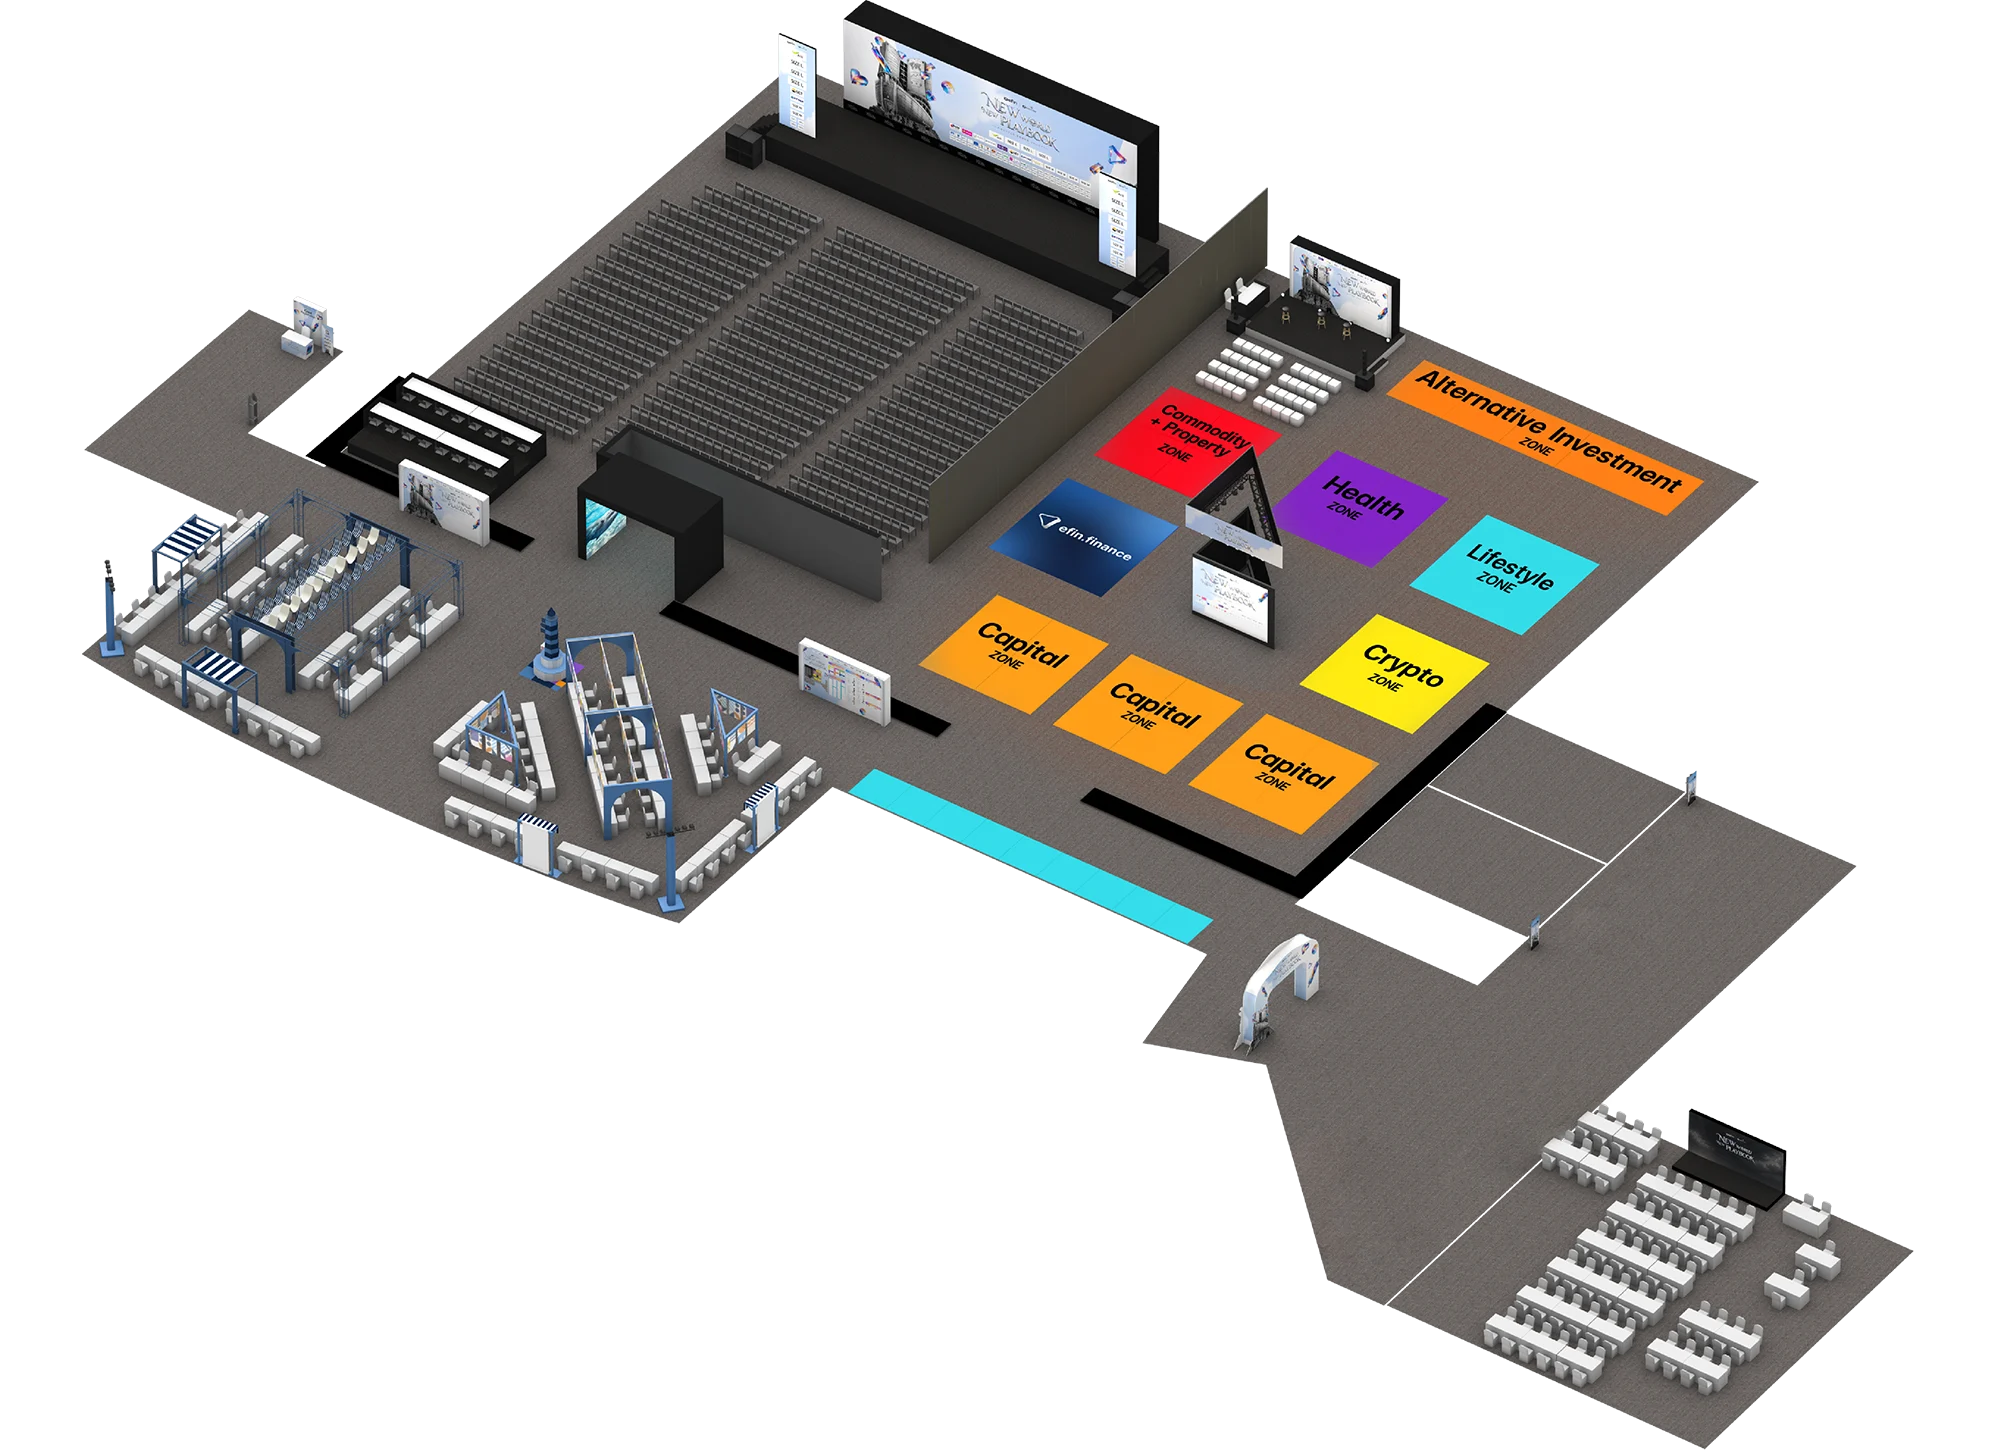
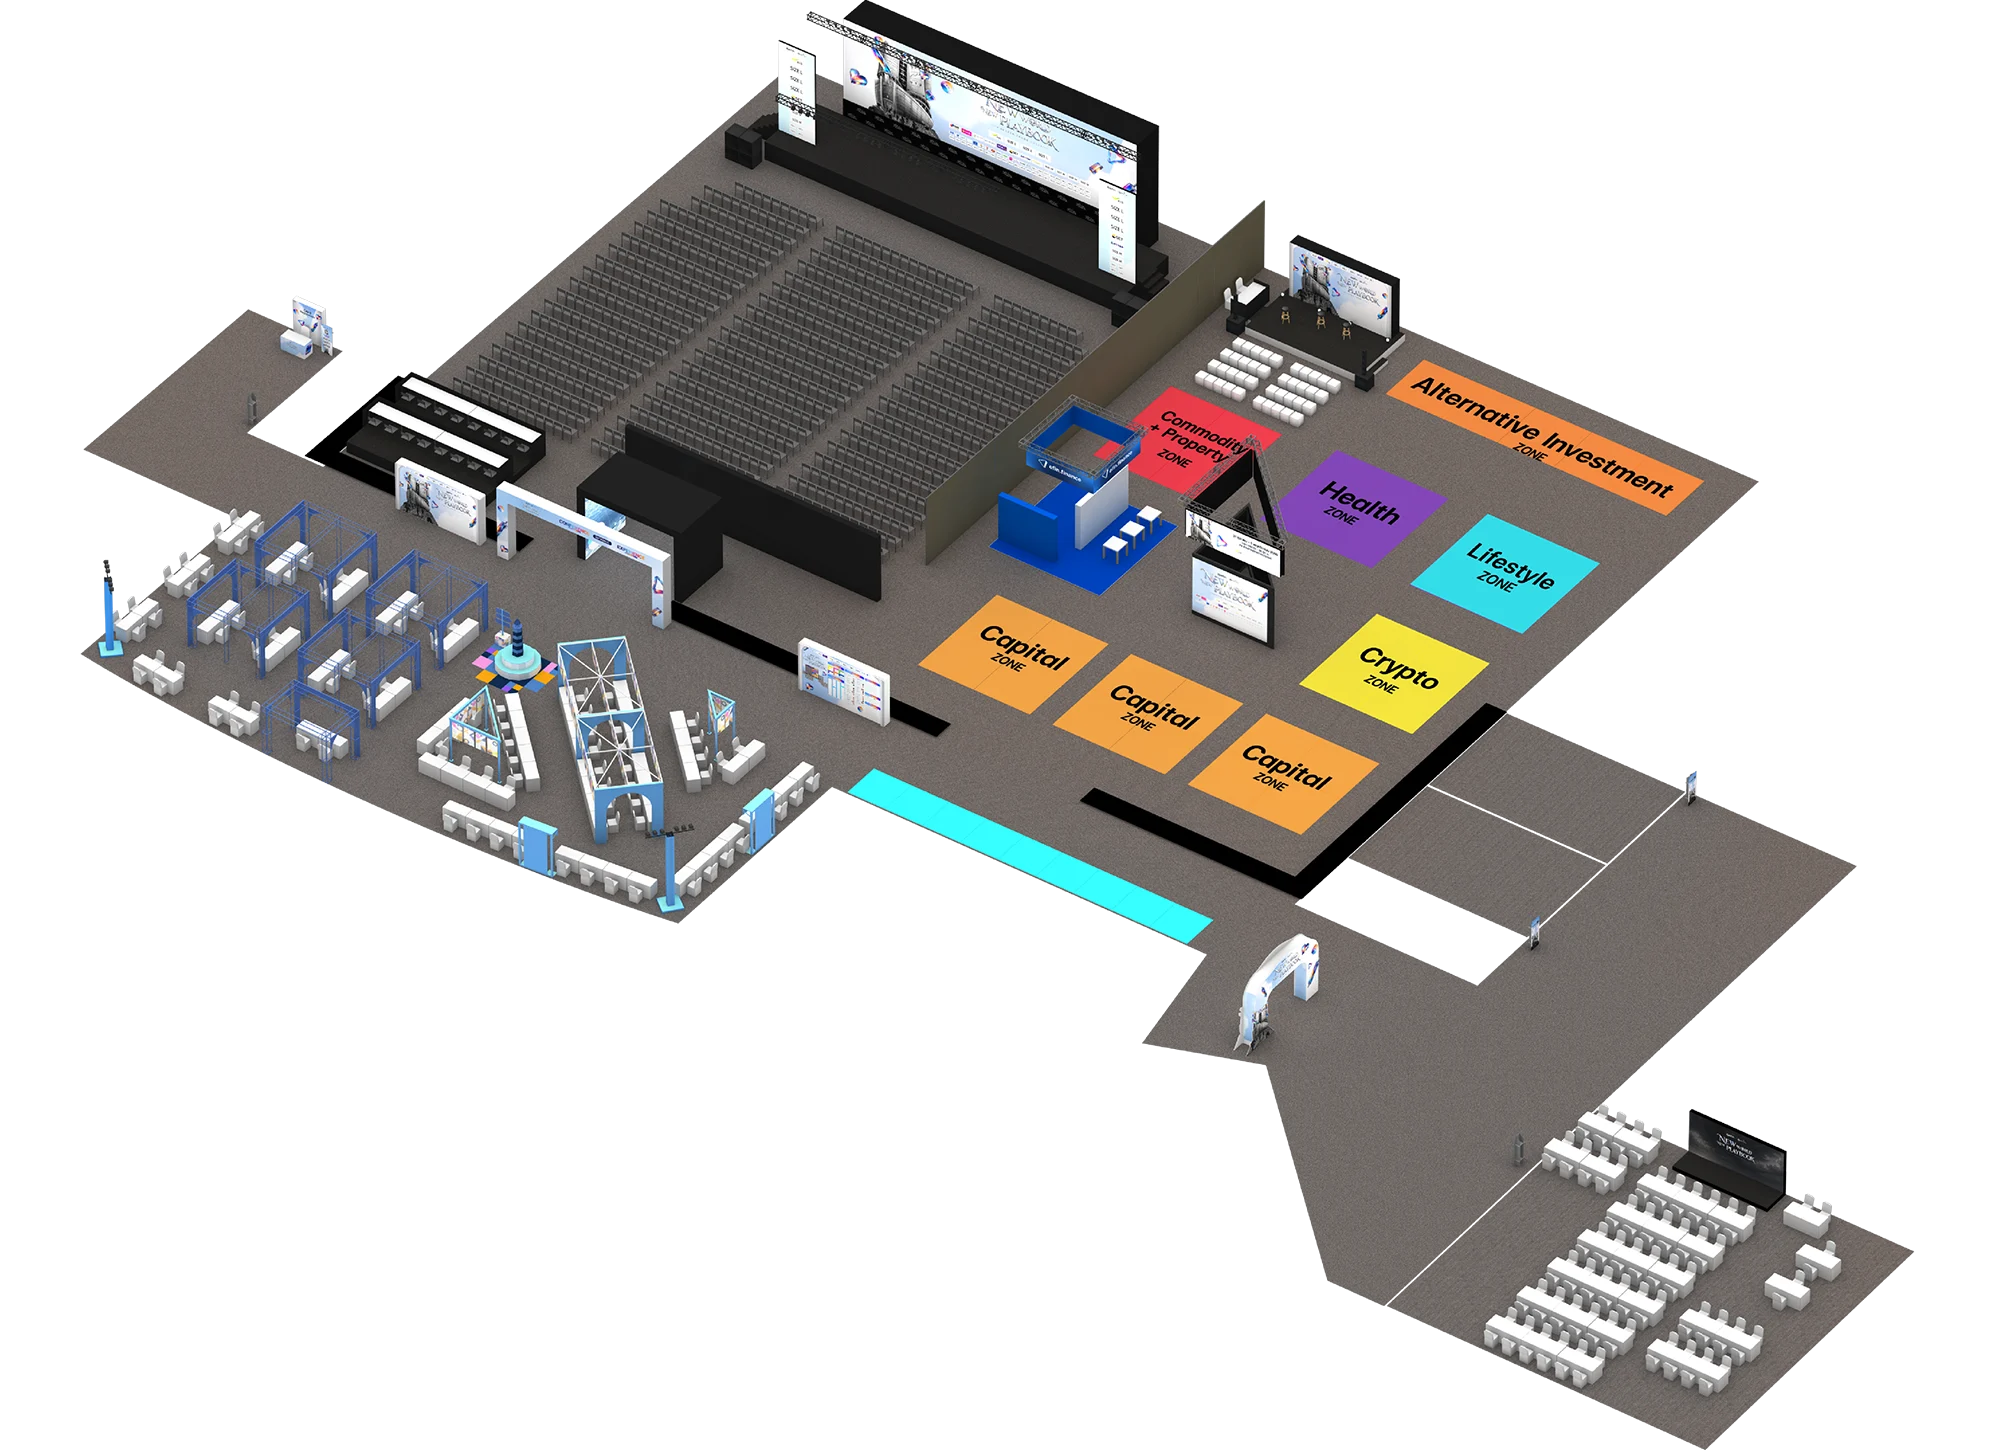
Add Pavilion Zone brand booths; update floor plan and sponsor images
- Pavilion Zone: Brandname list (Q1-2 Brandbyday … Q9-10 LuxeQuee), badge 8 บูธ
- Zone note style: body size, spacing above/below
- New floor-plan-01, floor-plan-02 and sponsors-logo images (cache versions bumped)
- tools: include นฤมล agenda photo in recent speakers export

diff --git a/index.html b/index.html
@@ -74,7 +74,7 @@
     <link rel="stylesheet" href="fonts/fonts.css">
     <link rel="stylesheet" href="vendor/swiper/swiper-bundle.min.css">
     <link rel="stylesheet" href="css/main.css?v=61">
-    <link rel="stylesheet" href="css/style.css?v=1223">
+    <link rel="stylesheet" href="css/style.css?v=1224">
 </head>
 
 <body class="is-loading">
@@ -1764,7 +1764,7 @@
                          เส้นอยู่ในพื้นว่างรอบแผนผัง ไม่ทับตัวแผนผัง -->
                     <figure class="floor-plan__overview">
                         <div class="floor-plan__overview-visual">
-                            <img class="floor-plan__overview-image" src="images/floor-plan-01.webp?v=2" width="2000" height="1456"
+                            <img class="floor-plan__overview-image" src="images/floor-plan-01.webp?v=3" width="2000" height="1456"
                                 loading="lazy" decoding="async"
                                 alt="ภาพรวม 3D ของพื้นที่งาน BetterTrade 2026: Conference, Pavilions และ Experience Zone">
                             <svg class="floor-plan__callouts" viewBox="0 0 1440 1141" aria-hidden="true">
@@ -1796,7 +1796,7 @@
                         <div class="floor-plan__stage">
                             <figure class="floor-plan__figure">
                                 <div class="floor-plan__visual">
-                                    <img class="floor-plan__image" src="images/floor-plan-02.webp?v=6" width="2000" height="1178"
+                                    <img class="floor-plan__image" src="images/floor-plan-02.webp?v=7" width="2000" height="1178"
                                         loading="lazy" decoding="async"
                                         alt="แผนผังบูธภายในงาน BetterTrade 2026 พร้อมหมายเลขบูธในแต่ละโซน">
                                     <!-- desktop: magnifier (hover zoom) วงกลมลอยตามเมาส์ (js/floor-plan-board.js) -->
@@ -1967,12 +1967,24 @@
                                         <h4 id="floor-plan-zone-heading-7" class="floor-plan__zone-heading accordion-header">
                                             <button class="floor-plan__zone-toggle accordion-button collapsed" type="button" data-bs-toggle="collapse" data-bs-target="#floor-plan-zone-7" aria-expanded="false" aria-controls="floor-plan-zone-7">
                                                 <span class="floor-plan__zone-name">Pavilion Zone</span>
+                                                <span class="floor-plan__zone-meta">8 บูธ</span>
                                                 <span class="floor-plan__zone-icon" aria-hidden="true"></span>
                                             </button>
                                         </h4>
                                         <div id="floor-plan-zone-7" class="floor-plan__zone-body accordion-collapse collapse" aria-labelledby="floor-plan-zone-heading-7" data-bs-parent="#floor-plan-zones">
                                             <div class="floor-plan__zone-inner">
-                                                <p class="floor-plan__zone-note">Card &amp; Brandname</p>
+                                                <!-- Pavilion มี 2 กลุ่ม: Brandname และ Card (Card ยังไม่มีข้อมูล ได้แล้วเพิ่มหัวข้อ + รายการแบบเดียวกันต่อท้าย) -->
+                                                <p class="floor-plan__zone-note">Brandname</p>
+                                                <ul class="floor-plan__booths">
+                                                    <li class="floor-plan__booth is-confirmed" data-booths="Q1 Q2"><span class="floor-plan__booth-code">Q1-2</span><span class="floor-plan__booth-name">Brandbyday</span></li>
+                                                    <li class="floor-plan__booth is-confirmed"><span class="floor-plan__booth-code">Q3</span><span class="floor-plan__booth-name">Mayrati Group</span></li>
+                                                    <li class="floor-plan__booth is-confirmed"><span class="floor-plan__booth-code">Q4</span><span class="floor-plan__booth-name">NAPATRA</span></li>
+                                                    <li class="floor-plan__booth is-confirmed"><span class="floor-plan__booth-code">Q5</span><span class="floor-plan__booth-name">Easy money</span></li>
+                                                    <li class="floor-plan__booth is-confirmed"><span class="floor-plan__booth-code">Q6</span><span class="floor-plan__booth-name">Selectedbrand</span></li>
+                                                    <li class="floor-plan__booth is-confirmed"><span class="floor-plan__booth-code">Q7</span><span class="floor-plan__booth-name">Panisa</span></li>
+                                                    <li class="floor-plan__booth is-confirmed"><span class="floor-plan__booth-code">Q8</span><span class="floor-plan__booth-name">Kireii brands</span></li>
+                                                    <li class="floor-plan__booth is-confirmed" data-booths="Q9 Q10"><span class="floor-plan__booth-code">Q9-10</span><span class="floor-plan__booth-name">LuxeQuee</span></li>
+                                                </ul>
                                             </div>
                                         </div>
                                     </div>
@@ -2019,7 +2031,7 @@
 
             <div class="sponsor__group" id="sponsors">
                 <h3 class="sponsor__group-title bt-section-title">Sponsors</h3>
-                <img class="sponsor__image" src="images/sponsors-logo.webp?v=4" width="2511" height="1432"
+                <img class="sponsor__image" src="images/sponsors-logo.webp?v=5" width="2511" height="1432"
                     loading="lazy" decoding="async" alt="โลโก้ผู้สนับสนุน BetterTrade 2026">
             </div>
 

diff --git a/css/style.css b/css/style.css
@@ -9463,9 +9463,9 @@ body.menu-open .site-header__backdrop {
     }
 
     .floor-plan__zone-note {
-        margin: 0 0 var(--space-3);
+        margin: var(--space-3) 0 var(--space-2);
         color: var(--color-text-muted);
-        font-size: var(--section-small-size);
+        font-size: var(--section-body-size);
         line-height: var(--section-body-line-height);
     }
 

diff --git a/personalized-playbook.html b/personalized-playbook.html
@@ -44,7 +44,7 @@
     <link rel="stylesheet" href="vendor/bootstrap/css/bootstrap.min.css">
     <link rel="stylesheet" href="fonts/fonts.css">
     <link rel="stylesheet" href="css/main.css?v=61">
-    <link rel="stylesheet" href="css/style.css?v=1223">
+    <link rel="stylesheet" href="css/style.css?v=1224">
 </head>
 
 <body class="playbook-page">

diff --git a/tools/export_agenda_recent_speakers.py b/tools/export_agenda_recent_speakers.py
@@ -19,6 +19,7 @@ NEW_SOURCES = {
     "images/agenda/day-1/D1-โช๊ค-โชกุล.webp",
     "images/agenda/day-1/D1-ศุภกร-สุนทรกิจ.webp",
     "images/agenda/day-1/D1-โค้ชฟิล์ม.webp",
+    "images/agenda/day-2/D2-นฤมล-บุญสนอง.webp",
     "images/agenda/day-2/D2-เผดิมภพ-สงเคราะห์.webp",
 }
 
